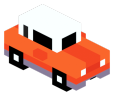
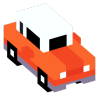
fix: align Bacon MagicaVoxel sprite yaws to road/hop at ANGLE 40°
Tune bake defaults so car noses track SE/NW travel (75°/255°) and the
chicken beak tracks hop-forward NE (195°, SW 15°) under the elev 30° /
azim 45° bake camera — previous 90/270/180 left a ~14° screen-axis miss.

diff --git a/tools/bake_bacon_blender.py b/tools/bake_bacon_blender.py
@@ -6,6 +6,7 @@ Invoked as:
 
 Companion to tools/bake_blender.py (Kenney GLB path). Same ortho/dimetric camera
 feel: elev 30°, view azim 45°, transparent film, SE + NW car facings, NE chick.
+Default yaws (car E=75, W=255, chick NE=195, SW=15) match road/hop at ANGLE 40°.
 
 OBJ sources live under assets/bacon/{chicken,orange_car,blue_car,green_car}/
 with local .mtl binding map_Kd to 0.png (real files — never symlinks).
@@ -53,13 +54,15 @@ def parse_args(argv: list[str] | None = None):
     ap.add_argument("--samples", type=int, default=64)
     ap.add_argument("--sweep", action="store_true", help="Yaw sweep contact only (no final bake)")
     ap.add_argument("--no-downscale", action="store_true")
-    # MagicaVoxel cars are long on Z; after OBJ Y-up→Blender Z-up, length ≈ ±Y.
-    # Default facing often nose toward -Y (like Kenney after glTF). SW preview ≈ 0.
-    ap.add_argument("--base-yaw", type=float, default=0.0, help="Yaw matching SW / base facing")
-    ap.add_argument("--car-e-yaw", type=float, default=None)
-    ap.add_argument("--car-w-yaw", type=float, default=None)
-    ap.add_argument("--chick-ne-yaw", type=float, default=None)
-    ap.add_argument("--chick-sw-yaw", type=float, default=None)
+    # MagicaVoxel cars are long on Z; after OBJ Y-up→Blender Z-up, length ≈ ±Y,
+    # nose toward Blender -Y. Tuned so projected nose matches road at ANGLE 40°
+    # (SE ≈ screen +40°, NW ≈ -140°) under elev 30° / view-azim 45° bake camera.
+    # Chick beak also -Y; NE hop ≈ screen -40°.
+    ap.add_argument("--base-yaw", type=float, default=0.0, help="Legacy offset; prefer explicit --*-yaw")
+    ap.add_argument("--car-e-yaw", type=float, default=75.0, help="SE traffic (dir=+1), nose down-right")
+    ap.add_argument("--car-w-yaw", type=float, default=255.0, help="NW traffic (dir=-1), nose up-left")
+    ap.add_argument("--chick-ne-yaw", type=float, default=195.0, help="Hop-forward NE (up-right)")
+    ap.add_argument("--chick-sw-yaw", type=float, default=15.0, help="Opposite SW facing")
     return ap.parse_args(argv)
 
 
@@ -453,10 +456,11 @@ def main():
     CONTACT.parent.mkdir(parents=True, exist_ok=True)
 
     base = args.base_yaw
-    car_e = args.car_e_yaw if args.car_e_yaw is not None else (base + 90.0)
-    car_w = args.car_w_yaw if args.car_w_yaw is not None else (base + 270.0)
-    chick_ne = args.chick_ne_yaw if args.chick_ne_yaw is not None else (base + 180.0)
-    chick_sw = args.chick_sw_yaw if args.chick_sw_yaw is not None else base
+    # Explicit defaults (75/255/195/15) align to ANGLE 40° road/hop; base only shifts if non-zero.
+    car_e = args.car_e_yaw + base
+    car_w = args.car_w_yaw + base
+    chick_ne = args.chick_ne_yaw + base
+    chick_sw = args.chick_sw_yaw + base
 
     down_h = None if args.no_downscale else args.out_height
 
